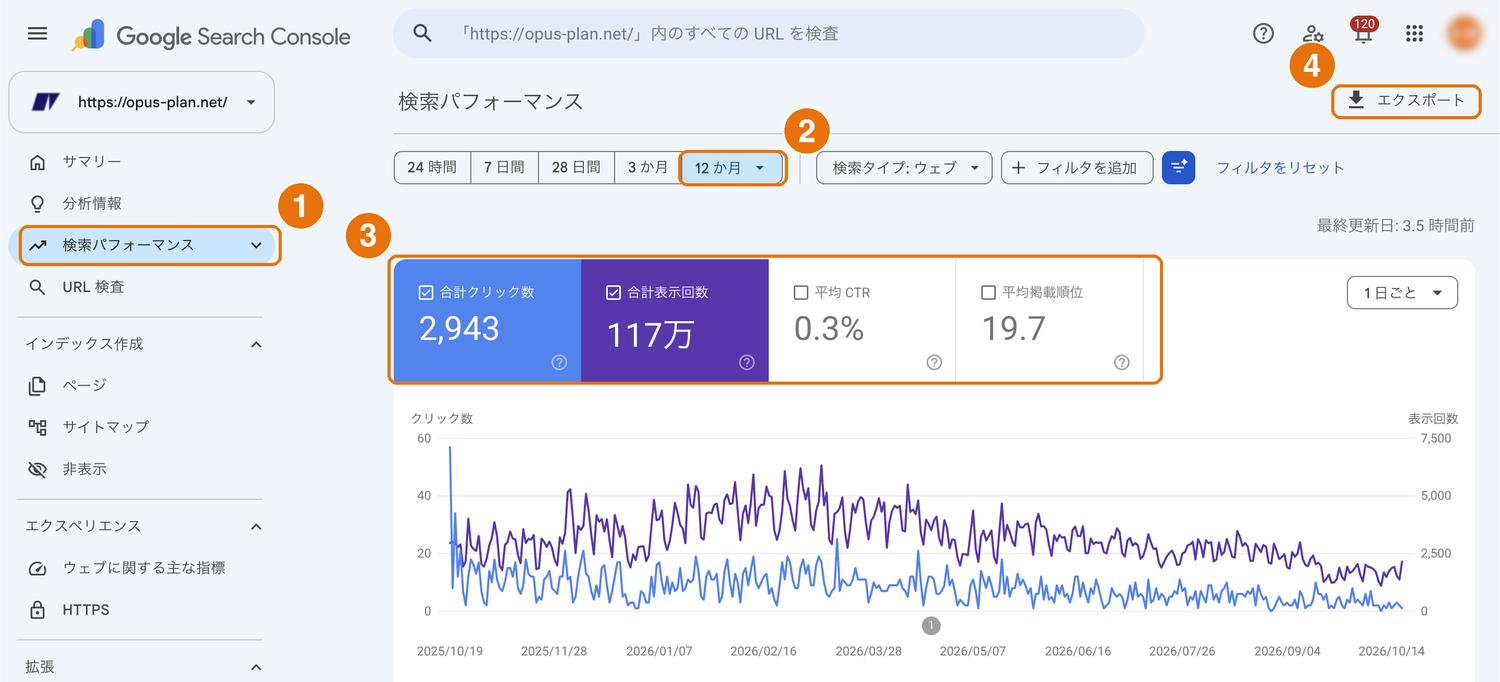
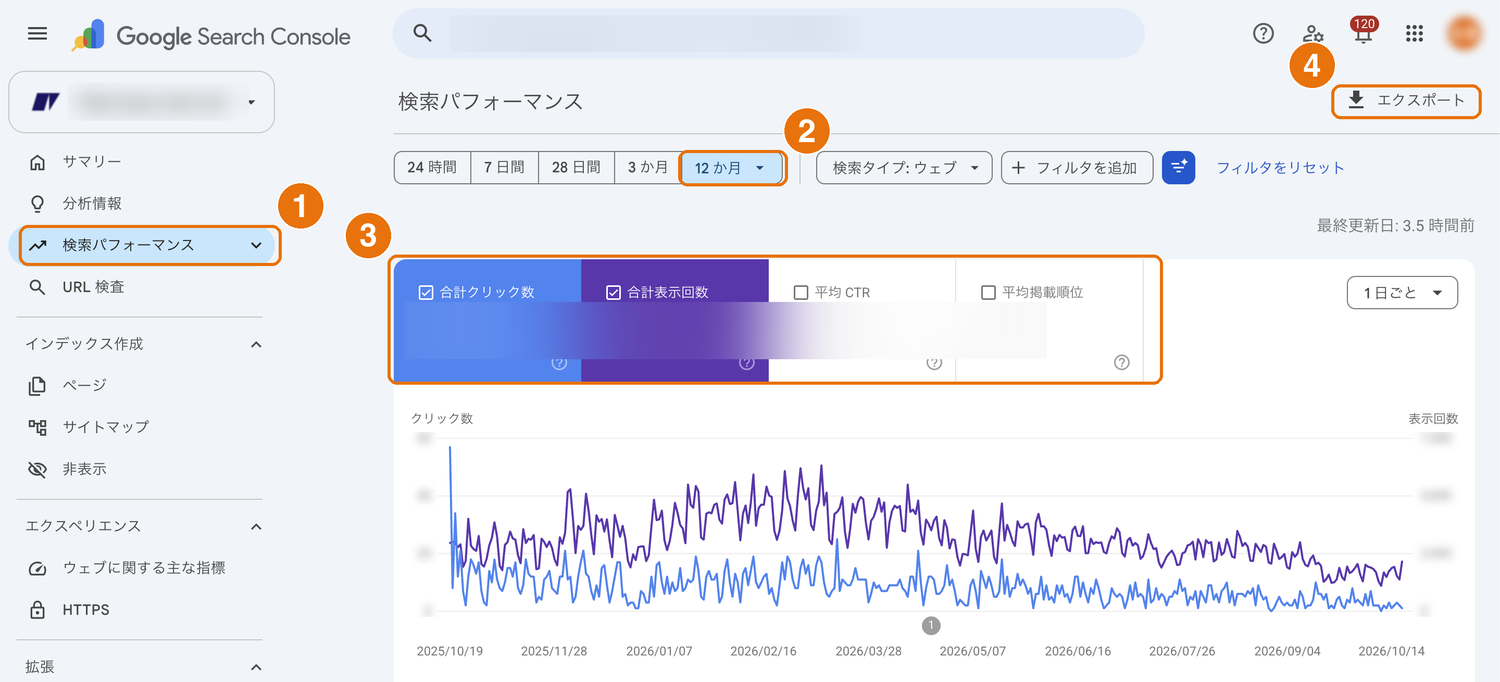
手順説明を図の下に集約、拡大リンクを廃止、サーチコンソール画像のURL・数値をぼかし

diff --git a/opusplan/marketing/column03-ga4-yrh6q69s/index.html b/opusplan/marketing/column03-ga4-yrh6q69s/index.html
@@ -145,7 +145,7 @@ img:is([sizes=auto i],[sizes^="auto," i]){contain-intrinsic-size:3000px 1500px}
 .p-blog__content-dec .op-shot__title{display:block;font-weight:bold;color:var(--op-navy);margin-bottom:5px}
 .p-blog__content-dec .op-shot figcaption>*{margin:0}
 .p-blog__content-dec .op-shot__item{display:block;position:relative;padding-left:26px;margin:3px 0 0}
-.p-blog__content-dec .op-shot__zoom{display:block;margin-top:8px!important;font-size:12px;color:#8A8A8A}
+.p-blog__content-dec .op-shot__note{display:block;margin-top:11px!important;padding-top:10px;border-top:1px dashed #D8DCE3;color:#6B7280}
 .p-blog__content-dec .op-shot__item i{position:absolute;left:0;top:.2em;width:18px;height:18px;border-radius:50%;
   background:#E8720C;color:#fff;font-style:normal;font-size:11px;font-weight:bold;display:flex;align-items:center;justify-content:center}
 /* 図解（自動生成） */
@@ -555,48 +555,49 @@ img:is([sizes=auto i],[sizes^="auto," i]){contain-intrinsic-size:3000px 1500px}
 </div>
 
 <h3>設定の手順</h3>
+<p>管理画面の中を順に見ていきます。まずは入口の確認からです。</p>
+
 <figure class="op-shot op-newbox">
-  <a href="images/ga4-admin.png" target="_blank" rel="noopener"><img src="images/ga4-admin.png" alt="GA4の管理画面。データ ストリームとデータの表示＞イベントの位置"></a>
+  <img src="images/ga4-admin.png" alt="GA4の管理画面。データ ストリームとデータの表示＞イベントの位置">
   <figcaption>
-    <span class="op-shot__title">図1　管理画面（手順1と手順3の入口）</span>
-    <span class="op-shot__item"><i>1</i>データの収集と修正 ＞ データ ストリーム（手順1で開く）</span>
-    <span class="op-shot__item"><i>2</i>「データの表示」をクリックして開くと「イベント」が現れる（手順3）</span>
-    <span class="op-shot__zoom">画像をクリックすると原寸で開きます</span>
+    <span class="op-shot__title">図1　管理画面（画面左下の歯車アイコンから開きます）</span>
+    <span class="op-shot__item"><i>1</i><strong>データの収集と修正 ＞ データ ストリーム</strong>。拡張計測機能の確認はここから（図2へ）</span>
+    <span class="op-shot__item"><i>2</i><strong>「データの表示」をクリックして開く</strong>と、その下に「イベント」が現れます。キーイベントの設定はここから（図3へ）</span>
+    <span class="op-shot__note">左メニューは折りたたまれているため、「データの表示」を開かないと<strong>「イベント」という項目自体が画面に出てきません</strong>。見つからないときは、まずここを疑ってください。</span>
   </figcaption>
 </figure>
 
 <figure class="op-shot op-newbox">
-  <a href="images/ga4-stream.png" target="_blank" rel="noopener"><img src="images/ga4-stream.png" alt="ウェブ ストリームの詳細。拡張計測機能のスイッチと「＋ 他 4 個」の位置"></a>
+  <img src="images/ga4-stream.png" alt="ウェブ ストリームの詳細。拡張計測機能のスイッチと「＋ 他 4 個」の位置">
   <figcaption>
-    <span class="op-shot__title">図2　ウェブ ストリームの詳細（手順1）</span>
-    <span class="op-shot__item"><i>1</i>拡張計測機能のスイッチ。オンになっていればOK</span>
-    <span class="op-shot__item"><i>2</i>「＋ 他 ◯ 個」。ここを押すと「フォームの操作」が出てくる</span>
-    <span class="op-shot__zoom">画像をクリックすると原寸で開きます</span>
+    <span class="op-shot__title">図2　ウェブ ストリームの詳細　― 拡張計測機能を確認する</span>
+    <span class="op-shot__item"><i>1</i>拡張計測機能のスイッチ。オンになっていれば、基本の自動計測は動いています</span>
+    <span class="op-shot__item"><i>2</i><strong>「＋ 他 ◯ 個」</strong>。「測定中：」に並ぶのは一部だけなので、ここを押して開き、<strong>「フォームの操作」</strong>がオンになっているか確認します</span>
+    <span class="op-shot__note">スイッチ全体はオンでも、「フォームの操作」だけ個別にオフになっていることがあります。見当たらない場合は、さらに右端の歯車アイコンから切り替えられます。</span>
   </figcaption>
 </figure>
+
+<div class="op-note">
+  <p class="op-note__title">図2のあとに　― イベントが記録されているか見る</p>
+  <p>レポート ＞ エンゲージメント ＞ イベント を開き、<strong>form_submit</strong> という行があるか確認します。フォーム送信があれば、ここに件数が入っています。</p>
+  <p>お使いのフォームの作り（JavaScriptで送信するタイプなど）によっては、拡張計測機能でform_submitが拾えないことがあります。実際に自分でテスト送信してみて、<strong>翌日この行の数字が増えているか</strong>で判断するのが確実です。</p>
+</div>
 
 <figure class="op-shot op-newbox">
-  <a href="images/ga4-events.png" target="_blank" rel="noopener"><img src="images/ga4-events.png" alt="GA4のイベント一覧。イベントを作成・最近のイベントタブ・星マークの位置"></a>
+  <img src="images/ga4-events.png" alt="GA4のイベント一覧。イベントを作成・最近のイベントタブ・星マークの位置">
   <figcaption>
-    <span class="op-shot__title">図3　イベントの一覧（手順3・手順4）</span>
-    <span class="op-shot__item"><i>1</i>「＋ イベントを作成」（手順4）</span>
-    <span class="op-shot__item"><i>2</i>「最近のイベント」タブ。実際に届いているイベントを確認できる（手順4）</span>
-    <span class="op-shot__item"><i>3</i>星マーク。クリックするとキーイベントになる（手順3）</span>
-    <span class="op-shot__zoom">画像をクリックすると原寸で開きます</span>
+    <span class="op-shot__title">図3　イベントの一覧　― キーイベントの印を付ける</span>
+    <span class="op-shot__item"><i>1</i><strong>「＋ イベントを作成」</strong>。目的のイベントが無いときは、ここから作ります</span>
+    <span class="op-shot__item"><i>2</i><strong>「最近のイベント」タブ</strong>。実際に届いているイベント名を確認できます</span>
+    <span class="op-shot__item"><i>3</i><strong>星マーク</strong>。クリックすると、そのイベントがキーイベントになります</span>
+    <span class="op-shot__note">「キーイベント」タブに <strong>purchase</strong> だけが並んでいるのはGA4の初期状態です。まず②で届いているイベントを確認し、目的のものがあれば③で星を付けます。無ければ①から「page_view のうち page_location に /thanks/ を含むもの」のような条件で作成し、一覧に出てきたら星を付けてください。</span>
   </figcaption>
 </figure>
 
-<ol class="op-howto">
-  <li><strong>拡張計測機能を確認する</strong>管理（左下の歯車）＞ データの収集と修正 ＞ <strong>データ ストリーム</strong>＞ 自社のストリーム を開くと、中ほどに<strong>拡張計測機能</strong>があります。<br>
-  「測定中：」に並ぶのは一部だけなので、右の<strong>「＋ 他 ◯ 個」</strong>をクリックして開き、<strong>「フォームの操作」</strong>がオンになっているか確認してください。</li>
-  <li><strong>イベントが記録されているか見る</strong>レポート ＞ エンゲージメント ＞ イベントを開き、<strong>form_submit</strong>という行があるか確認します。フォーム送信があれば、ここに件数が入っています。<br>
-  なお、お使いのフォームの作り（JavaScriptで送信するタイプなど）によっては、拡張計測機能ではform_submitが拾えないことがあります。実際に自分でテスト送信してみて、翌日この行に数字が増えているかで判断するのが確実です。</li>
-  <li><strong>キーイベントの印を付ける</strong>管理 ＞ プロパティ設定 ＞ <strong>「データの表示」をクリックして開く</strong>と、その下に<strong>「イベント」</strong>が現れます（閉じたままだと項目自体が出てきません）。<br>
-  一覧が開いたら、<strong>イベント名の左にある星マーク</strong>をクリックすれば完了です。</li>
-  <li><strong>目的のイベントが無い場合は作成する</strong><strong>purchase</strong> だけが並んでいるのは、まだキーイベントが用意されていない状態です。隣の<strong>「最近のイベント」タブ</strong>で実際に届いているイベント名を確認し、目的のものがあれば星を付けます。<br>
-  無ければ<strong>「＋ イベントを作成」</strong>から作ります。例：「page_view のうち page_location に /thanks/ を含むもの」でお問い合わせ完了ページの表示を数えられます。作成後、一覧に出てきたら星を付けてください。</li>
-  <li><strong>反映を待つ</strong>設定した時点以降のデータが対象です。過去にさかのぼって集計されるわけではありません。</li>
-</ol>
+<div class="op-note">
+  <p class="op-note__title">設定したあとは</p>
+  <p>集計されるのは<strong>設定した時点以降</strong>のデータです。過去にさかのぼって集計されるわけではないので、早めに入れておくほど、あとで比べやすくなります。</p>
+</div>
 
 <div class="op-note">
   <p class="op-note__title">完了ページがある場合</p>

diff --git a/opusplan/marketing/column02-search-console-gvx1qb9h/index.html b/opusplan/marketing/column02-search-console-gvx1qb9h/index.html
@@ -145,7 +145,7 @@ img:is([sizes=auto i],[sizes^="auto," i]){contain-intrinsic-size:3000px 1500px}
 .p-blog__content-dec .op-shot__title{display:block;font-weight:bold;color:var(--op-navy);margin-bottom:5px}
 .p-blog__content-dec .op-shot figcaption>*{margin:0}
 .p-blog__content-dec .op-shot__item{display:block;position:relative;padding-left:26px;margin:3px 0 0}
-.p-blog__content-dec .op-shot__zoom{display:block;margin-top:8px!important;font-size:12px;color:#8A8A8A}
+.p-blog__content-dec .op-shot__note{display:block;margin-top:11px!important;padding-top:10px;border-top:1px dashed #D8DCE3;color:#6B7280}
 .p-blog__content-dec .op-shot__item i{position:absolute;left:0;top:.2em;width:18px;height:18px;border-radius:50%;
   background:#E8720C;color:#fff;font-style:normal;font-size:11px;font-weight:bold;display:flex;align-items:center;justify-content:center}
 /* 図解（自動生成） */
@@ -594,47 +594,32 @@ img:is([sizes=auto i],[sizes^="auto," i]){contain-intrinsic-size:3000px 1500px}
 <p>キーワードツールで「これから狙う言葉」を探す前に、まずこの画面で<strong>すでに自社が持っている言葉</strong>を確認してください。ゼロから考えるより、すでに表示されている言葉を伸ばすほうが、はるかに早く結果が出ます。</p>
 
 <figure class="op-shot op-newbox">
-  <a href="images/sc-performance.png" target="_blank" rel="noopener"><img src="images/sc-performance.png" alt="サーチコンソールの検索パフォーマンス画面。左メニュー・期間・4つの数字・エクスポートの位置"></a>
+  <img src="images/sc-performance.png" alt="サーチコンソールの検索パフォーマンス画面。左メニュー・期間・4つの数字・エクスポートの位置">
   <figcaption>
     <span class="op-shot__title">図1　検索パフォーマンスを開いたところ</span>
-    <span class="op-shot__item"><i>1</i>左メニューの「検索パフォーマンス」</span>
-    <span class="op-shot__item"><i>2</i>期間。「12 か月」に広げる</span>
-    <span class="op-shot__item"><i>3</i>4つの数字。平均CTRと平均掲載順位はクリックしてオンにする</span>
-    <span class="op-shot__item"><i>4</i>エクスポート。一覧をスプレッドシートやCSVに書き出せる</span>
-    <span class="op-shot__zoom">画像をクリックすると原寸で開きます</span>
+    <span class="op-shot__item"><i>1</i>左メニューの<strong>「検索パフォーマンス」＞「検索結果」</strong>。ここが入口です</span>
+    <span class="op-shot__item"><i>2</i>期間。<strong>「過去12か月」</strong>に広げると傾向が見えます</span>
+    <span class="op-shot__item"><i>3</i>4つの数字。<strong>平均CTRと平均掲載順位は初期状態でオフ</strong>のことが多く、カードをクリックしてオンにしないと表に列が出てきません</span>
+    <span class="op-shot__item"><i>4</i>エクスポート。一覧をスプレッドシートやCSVに書き出せます</span>
+    <span class="op-shot__note">直近28日だけだと、季節や曜日のぶれに引っぱられます。まずは12か月で全体の傾向をつかんでください。また、画面上では1000行までしか見られないため、腰を据えて整理したいときは④で書き出してから作業します。</span>
   </figcaption>
 </figure>
 
 <figure class="op-shot op-newbox">
-  <a href="images/sc-query.png" target="_blank" rel="noopener"><img src="images/sc-query.png" alt="サーチコンソールのクエリ一覧。クエリタブ・クリック数・表示回数とCTR・掲載順位の位置"></a>
+  <img src="images/sc-query.png" alt="サーチコンソールのクエリ一覧。クエリタブ・クリック数・表示回数とCTR・掲載順位の位置">
   <figcaption>
     <span class="op-shot__title">図2　「クエリ」タブに切り替えたところ</span>
-    <span class="op-shot__item"><i>1</i>「クエリ」タブ。ここに検索ワードが並ぶ</span>
-    <span class="op-shot__item"><i>2</i>クリック数。見出しをクリックすると並べ替えできる</span>
-    <span class="op-shot__item"><i>3</i>表示回数とCTR。表示が多いのにCTRが低い＝伸ばせる余地</span>
-    <span class="op-shot__item"><i>4</i>掲載順位。11〜20位はあと少しで1ページ目</span>
-    <span class="op-shot__zoom">画像をクリックすると原寸で開きます</span>
+    <span class="op-shot__item"><i>1</i><strong>「クエリ」タブ</strong>。自社サイトが検索結果に表示されたときの検索ワードが並びます</span>
+    <span class="op-shot__item"><i>2</i>クリック数。見出しをクリックすると並べ替えできます。<strong>いま実際に人を連れてきている言葉＝自社の主力ワード</strong>です</span>
+    <span class="op-shot__item"><i>3</i>表示回数とCTR。<strong>表示は多いのにCTRが低い言葉</strong>は、検索結果に出ているのに選ばれていない状態です。タイトルと説明文を書き直すだけで伸びる余地があります</span>
+    <span class="op-shot__item"><i>4</i>掲載順位。<strong>11〜20位</strong>はあと少しで1ページ目です。ページを増やすより、既存ページに内容を足すほうが効率よく改善できます</span>
+    <span class="op-shot__note">社名での検索（指名検索）は、すでに自社を知っている人です。社名以外の言葉に絞って見ると、新しく見つけてもらえている言葉が分かります。</span>
   </figcaption>
 </figure>
-
-<ol class="op-howto">
-  <li><strong>クエリの一覧を開く</strong>左メニューの<strong>「検索パフォーマンス」＞「検索結果」</strong>を開き、グラフの下にある<strong>「クエリ」タブ</strong>を選びます。ここに、自社サイトが検索結果に表示されたときの検索ワードが一覧で並びます。</li>
-  <li><strong>4つの数字を表示する</strong>グラフ上部の<strong>「合計クリック数」「合計表示回数」「平均CTR」「平均掲載順位」</strong>のカードをクリックして、4つともオンにします。初期状態では平均CTRと平均掲載順位がオフになっていることが多く、オンにしないと表に列が出てきません。</li>
-  <li><strong>期間を広げる</strong>右上の日付で「過去12か月」にすると傾向が見えます。直近28日だけだと、季節や曜日のぶれに引っぱられます。</li>
-  <li><strong>クリック数の多い順に並べる</strong>列の見出しをクリックすると並べ替えできます。いま実際に人を連れてきている言葉＝自社の主力ワードが分かります。</li>
-  <li><strong>表示回数が多くクリックが少ない行を探す</strong>「表示回数は多いのに平均CTRが低い」言葉は、検索結果には出ているのに選ばれていない状態です。タイトルと説明文を書き直すだけで伸びる余地が残っています。</li>
-  <li><strong>掲載順位11〜20位の行を探す</strong>あと少しで1ページ目に届く言葉です。ページを増やすより、既存ページに内容を足すほうが効率よく改善できます。</li>
-  <li><strong>一覧をダウンロードする</strong>表の右上の<strong>エクスポート</strong>からスプレッドシートやCSVに書き出せます。画面上では1000行までしか見られないため、腰を据えて整理したいときは書き出してから作業します。</li>
-</ol>
 
 <div class="op-note">
   <p class="op-note__title">社内の言葉とのずれを見つける</p>
   <p>書き出した一覧を眺めると、社内で使っているサービス名と、お客さまが実際に入力している言葉が違うことによく気づきます。<strong>お客さまが使っている言葉がページ内に1度も書かれていない</strong>なら、そこが最初に直すべき箇所です。</p>
-</div>
-
-<div class="op-note">
-  <p class="op-note__title">見るときのコツ</p>
-  <p>社名での検索（指名検索）は、すでに自社を知っている人です。<strong>社名以外の言葉</strong>に絞って見ると、新しく見つけてもらえている言葉が分かります。</p>
 </div>
 <a class="op-more" href="https://kanpai-web.github.io/share/opusplan/marketing/column04-keyword-yf4pmqaj/">
   <span class="op-more__tx">

diff --git a/opusplan/marketing/column04-keyword-yf4pmqaj/index.html b/opusplan/marketing/column04-keyword-yf4pmqaj/index.html
@@ -142,7 +142,7 @@ img:is([sizes=auto i],[sizes^="auto," i]){contain-intrinsic-size:3000px 1500px}
 .p-blog__content-dec .op-shot__title{display:block;font-weight:bold;color:var(--op-navy);margin-bottom:5px}
 .p-blog__content-dec .op-shot figcaption>*{margin:0}
 .p-blog__content-dec .op-shot__item{display:block;position:relative;padding-left:26px;margin:3px 0 0}
-.p-blog__content-dec .op-shot__zoom{display:block;margin-top:8px!important;font-size:12px;color:#8A8A8A}
+.p-blog__content-dec .op-shot__note{display:block;margin-top:11px!important;padding-top:10px;border-top:1px dashed #D8DCE3;color:#6B7280}
 .p-blog__content-dec .op-shot__item i{position:absolute;left:0;top:.2em;width:18px;height:18px;border-radius:50%;
   background:#E8720C;color:#fff;font-style:normal;font-size:11px;font-weight:bold;display:flex;align-items:center;justify-content:center}
 /* 図解（自動生成） */

diff --git a/opusplan/marketing/column05-journey-zel0x7dg/index.html b/opusplan/marketing/column05-journey-zel0x7dg/index.html
@@ -142,7 +142,7 @@ img:is([sizes=auto i],[sizes^="auto," i]){contain-intrinsic-size:3000px 1500px}
 .p-blog__content-dec .op-shot__title{display:block;font-weight:bold;color:var(--op-navy);margin-bottom:5px}
 .p-blog__content-dec .op-shot figcaption>*{margin:0}
 .p-blog__content-dec .op-shot__item{display:block;position:relative;padding-left:26px;margin:3px 0 0}
-.p-blog__content-dec .op-shot__zoom{display:block;margin-top:8px!important;font-size:12px;color:#8A8A8A}
+.p-blog__content-dec .op-shot__note{display:block;margin-top:11px!important;padding-top:10px;border-top:1px dashed #D8DCE3;color:#6B7280}
 .p-blog__content-dec .op-shot__item i{position:absolute;left:0;top:.2em;width:18px;height:18px;border-radius:50%;
   background:#E8720C;color:#fff;font-style:normal;font-size:11px;font-weight:bold;display:flex;align-items:center;justify-content:center}
 /* 図解（自動生成） */

diff --git a/opusplan/marketing/column01-inquiry-gxb9qfm9/index.html b/opusplan/marketing/column01-inquiry-gxb9qfm9/index.html
@@ -117,7 +117,7 @@ img:is([sizes=auto i],[sizes^="auto," i]){contain-intrinsic-size:3000px 1500px}
 .p-blog__content-dec .op-shot__title{display:block;font-weight:bold;color:var(--op-navy);margin-bottom:5px}
 .p-blog__content-dec .op-shot figcaption>*{margin:0}
 .p-blog__content-dec .op-shot__item{display:block;position:relative;padding-left:26px;margin:3px 0 0}
-.p-blog__content-dec .op-shot__zoom{display:block;margin-top:8px!important;font-size:12px;color:#8A8A8A}
+.p-blog__content-dec .op-shot__note{display:block;margin-top:11px!important;padding-top:10px;border-top:1px dashed #D8DCE3;color:#6B7280}
 .p-blog__content-dec .op-shot__item i{position:absolute;left:0;top:.2em;width:18px;height:18px;border-radius:50%;
   background:#E8720C;color:#fff;font-style:normal;font-size:11px;font-weight:bold;display:flex;align-items:center;justify-content:center}
 
